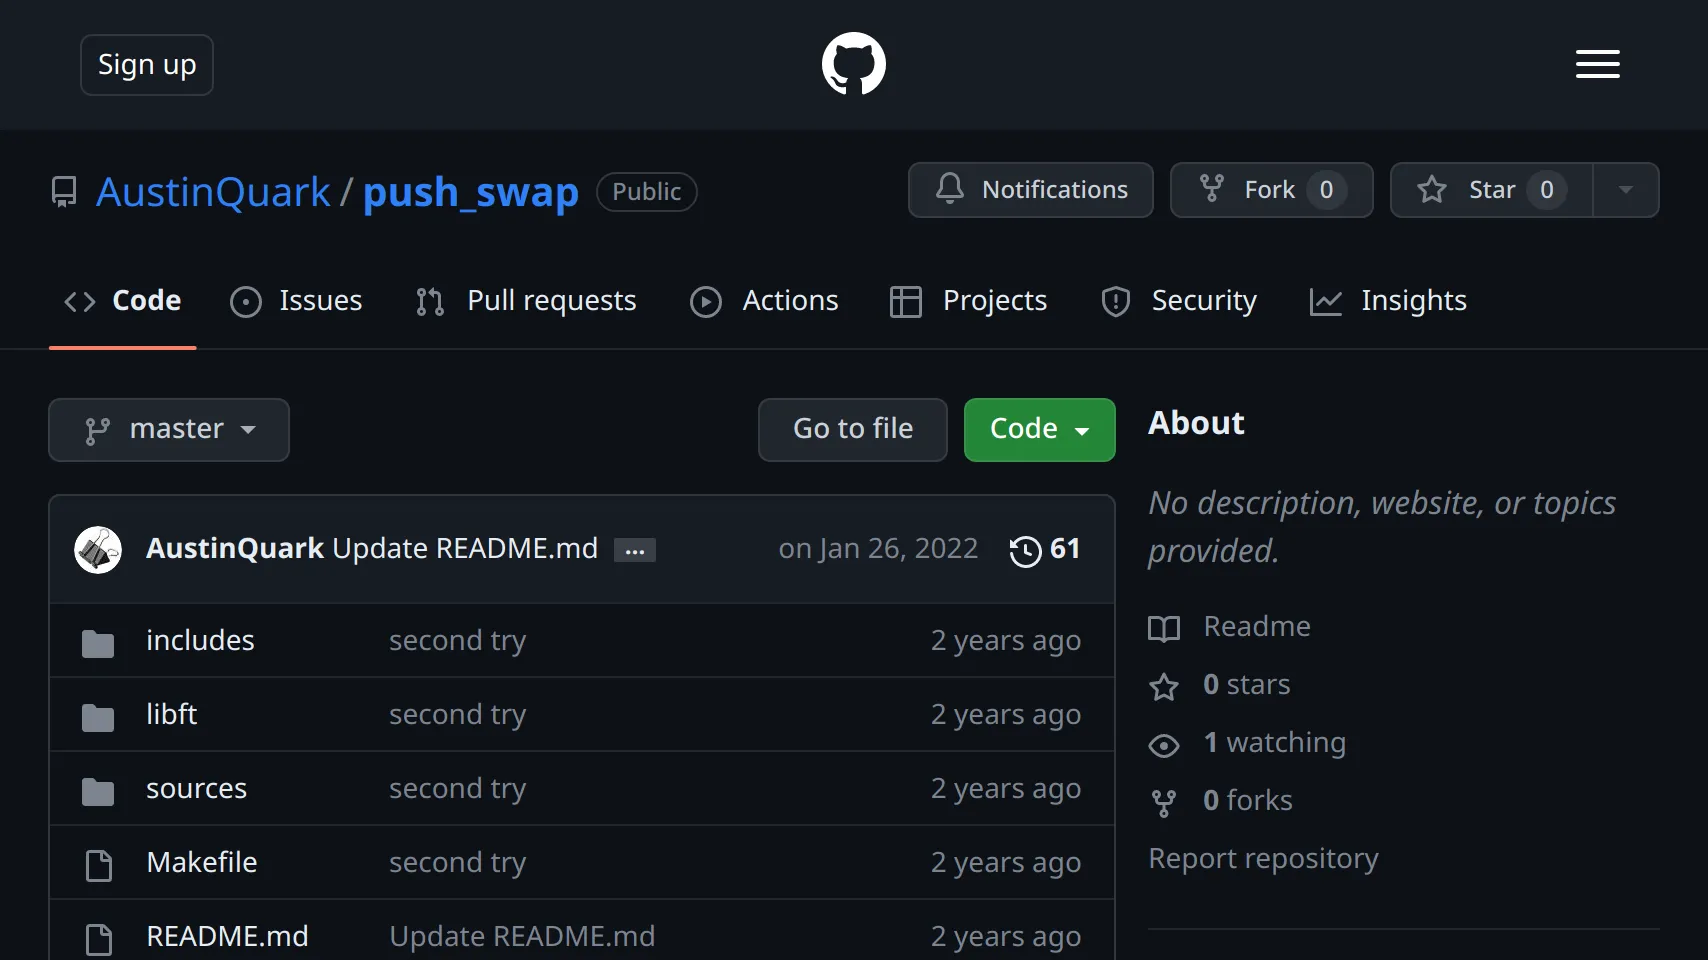
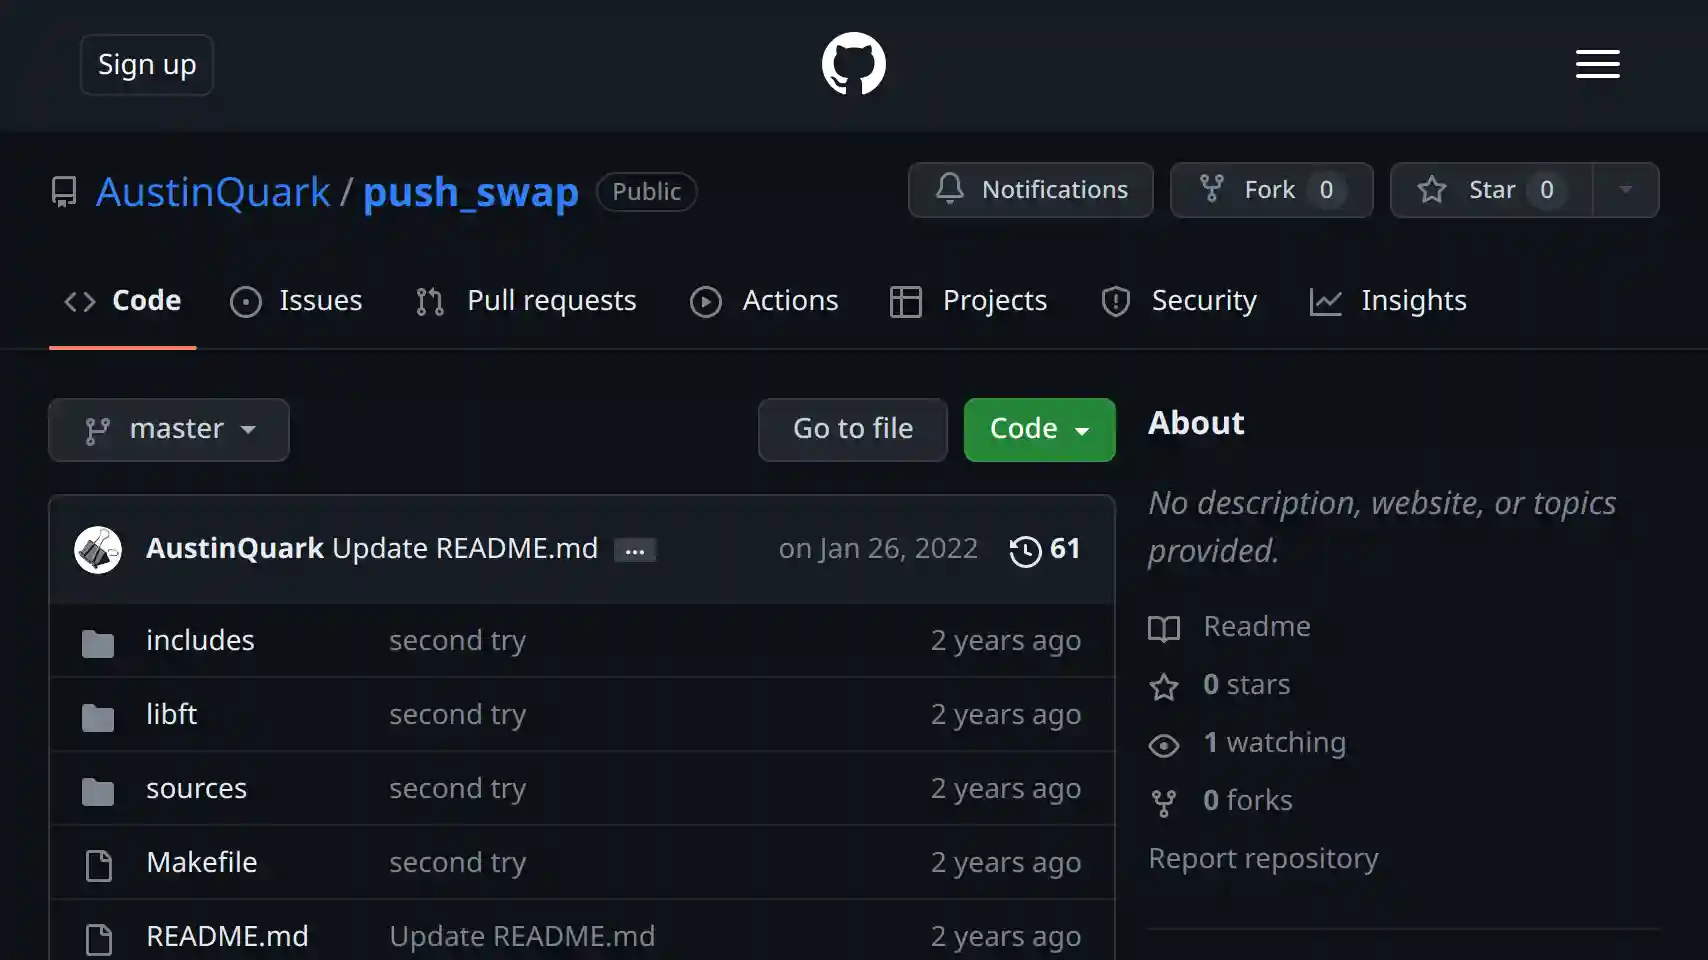
jpeg replace png + quality scaling

diff --git a/screenshots.js b/screenshots.js
@@ -7,26 +7,29 @@ const optionsWebp = {
             '--disable-setuid-sandbox'
         ]
     },
-    delay: 5,
+    delay: 3,
     width: 854,
     height: 480,
     type: 'webp',
     darkMode: true,
     overwrite: true,
+    quality: 0.2
 };
 
-const optionsPng = {
+const optionsJpeg = {
     launchOptions: {
         args: [
             '--no-sandbox',
             '--disable-setuid-sandbox'
         ]
     },
-    delay: 5,
+    delay: 3,
     width: 854,
     height: 480,
+    type: 'jpeg',
     darkMode: true,
     overwrite: true,
+    quality: 0.35
 };
 
 
@@ -46,7 +49,7 @@ await Promise.all(items.map(([url, filename]) => {
 }));
 
 await Promise.all(items.map(([url, filename]) => {
-    return captureWebsite.file(url, `${filename}.png`, optionsPng);
+    return captureWebsite.file(url, `${filename}.jpeg`, optionsJpeg);
 }));
 
 

diff --git a/public/scripts/cubeThree.js b/public/scripts/cubeThree.js
@@ -97,7 +97,7 @@ for (var i = 0; i < 6; i++) {
 	panelElem.classList.add("panel_shadow");
 	panelElem.style.width = panelWidth + "px";
 	panelElem.style.height = panelHeight + "px";
-	var panelFile = (webpSupport) ? "url(images/screenshot" + i + ".webp)" : "url(images/screenshot" + i + ".png)";
+	var panelFile = (webpSupport) ? "url(images/screenshot" + i + ".webp)" : "url(images/screenshot" + i + ".jpeg)";
 	panelElem.style.backgroundImage = panelFile;
 
 	var label = new CSS3DObject(panelElem);
